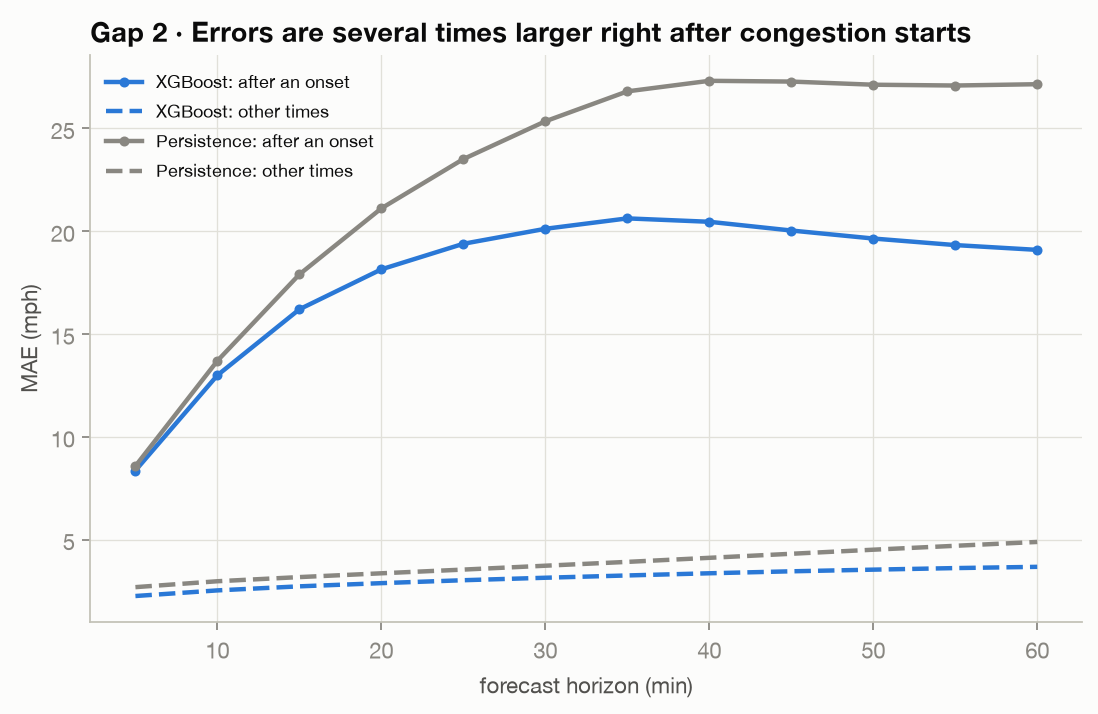
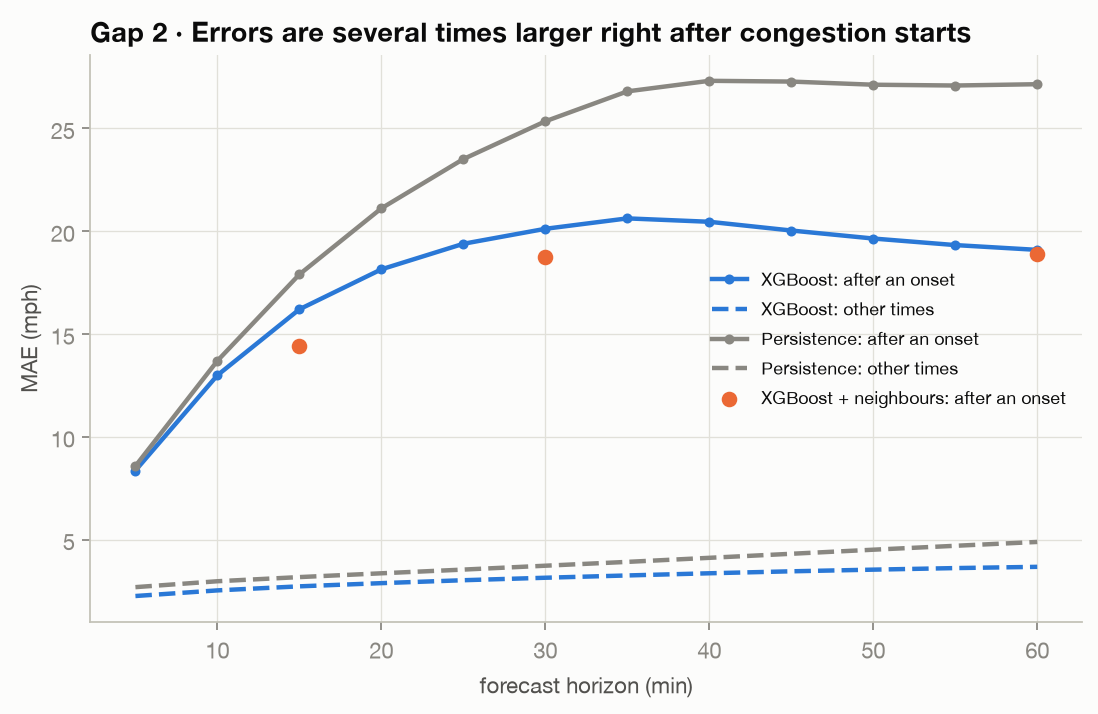
Phase 4: XGB + neighbours experiment results
Hand-made neighbour features lower XGBoost test MAE at every horizon: upstream -1.5/-1.1/-0.7%, downstream -2.3/-1.4/-0.9%, both directions -3.5/-2.6/-1.4% at 15/30/60 min. With both directions, error after congestion onsets drops from 16.2 to 14.4 mph at 15 min. Adds gap_results.csv, figure 10 and refreshed onset/residual results.

diff --git a/src/viz/gap_plots.py b/src/viz/gap_plots.py
@@ -63,10 +63,10 @@ def plot_neighbour_test(table: pd.DataFrame, split: str = "test") -> plt.Figure:
         if k:
             for b, mm in zip(bars, mins):
                 g = t.loc[m, f"MAE_gain_{mm}min_%"]
-                ax.text(b.get_x() + b.get_width() / 2, b.get_height() + 0.03, f"{g:+.1f}%", ha="center", fontsize=7, color=S.INK_2)
+                ax.text(b.get_x() + b.get_width() / 2, b.get_height() + 0.03, f"{-g:+.1f}%", ha="center", fontsize=7, color=S.INK_2)
     ax.set_xticks(x, [f"{m} min" for m in mins])
     ax.set_ylabel("MAE (mph)")
-    ax.set_title("Gap 3 · Giving XGBoost its neighbours' speeds lowers error, most at longer horizons")
+    ax.set_title("Gap 3 · Neighbours' speeds lower XGBoost's error at every horizon (labels: MAE change)")
     ax.legend(fontsize=8, ncol=2)
     ax.grid(axis="x", visible=False)
     return fig
